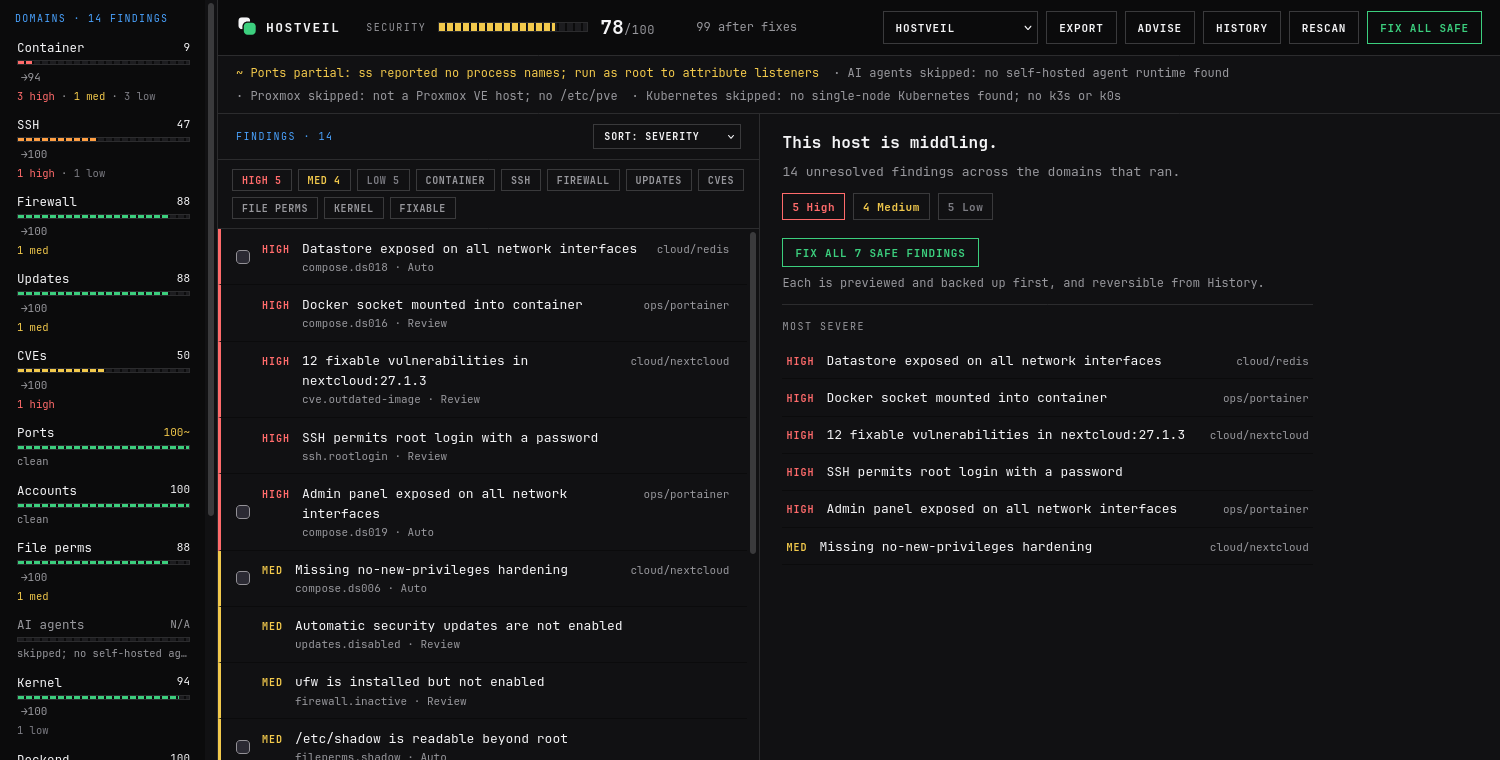
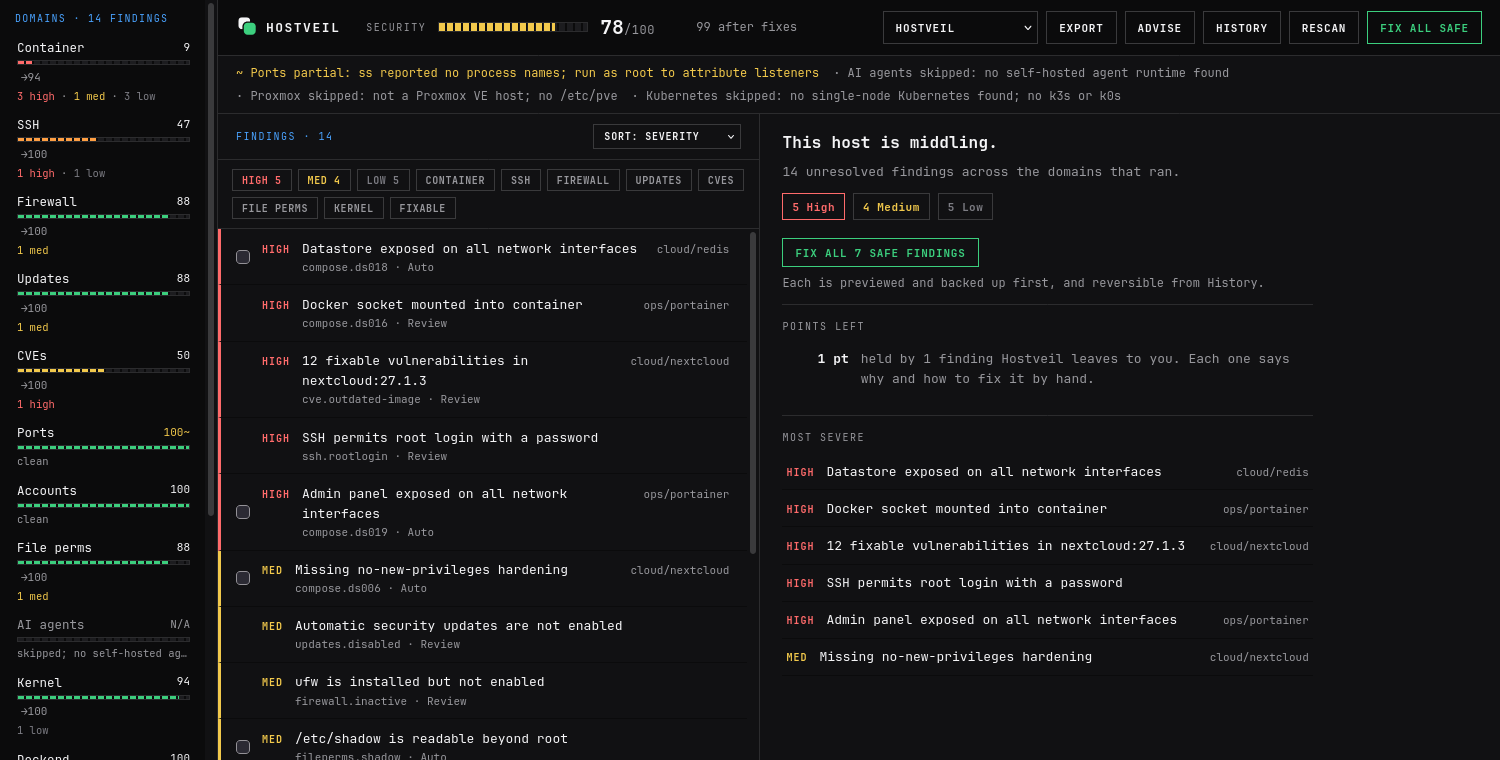
feat(web): say where the points left after every fix are (#888)
## Summary

Stacked on #887 (which is stacked on #886); review only the top commit
and retarget to `main` once those land.

A score that stays below 100 after every fix read as the tool failing.
The overview now says where the rest of the points are and what it takes
to win each part back.

- `model`: `ScoreBreakdown.Left` (`PointsLeft`) holds three parts with
their finding counts:
- **Pending**: points that return once applied fixes take effect after a
restart.
- **Manual**: points held by findings Hostveil explains and leaves for
the operator.
  - **Unavailable**: points held by findings with no fix published yet.
Manual and Unavailable are attributed in that order with the same
scorer, so they add up to exactly `100 - AfterFixes`.
- `web`: the overview lists the parts under "Points left", each with a
sentence on what to do.
- `clirender`: `scan` prints one line under the score, for example
`Points left: +3 after restarts (1 fix) · 20 to fix by hand (3
findings)`. `--json` carries `score.left`.
- Docs: a "Points left" section on the scoring page in both languages
and a paragraph in both READMEs. `web.png` and its stamp are re-taken.

The TUI is unchanged, since its users read the per-axis headroom
already.

## Testing

- New `internal/model/pointsleft_test.go`: the two parts add up to the
gap, counts are right, a clean host and an inapplicable score have
nothing left.
- New `internal/clirender/pointsleft_test.go` for the CLI line.
[…]

diff --git a/cmd/sitegen/content/ko/docs/scoring.html b/cmd/sitegen/content/ko/docs/scoring.html
@@ -364,6 +364,8 @@ overall   = 100 - round(total × 100 / ranCapSum)</code></pre></div>
             <p><strong>100까지 남은 간격은 직접 메울 수 있습니다.</strong> 그것은 Hostveil이 <em>무인으로</em> 하지 않는 부분입니다. 그 계정을 지우거나 소켓 마운트를 걷어내는 일은 오늘 오후에 할 수 있고, 그러면 점수도 따라옵니다.</p>
             <p>다른 선택지는 Manual 항목의 가중치를 깎는 것이었고, 그럴듯해 보이는 바로 그 지점에서 잘못된 거래입니다. Manual은 Hostveil이 손대지 않는다는 뜻이고, 위험은 그대로입니다. 사용자가 직접 가서 없앨 수 있으니까요. 충분히 제거할 수 있는 위험을 깎아 주는 것은 이 모델이 다시 만들어지면서 거부한 바로 그 아첨이고, 고칠 방법이 없는 취약점을 깎지 않는 것도(<a href="#unavailable">위 참고</a>) 같은 이유입니다. 오늘 당장 손댈 수 없다고 위험이 작아지지는 않습니다.</p>
             <p>고칠 것이 하나도 없으면 이 숫자는 점수와 같아지고, 그럴 때 모든 인터페이스는 아무것도 표시하지 않습니다.</p>
+<h3 id="points-left">남은 점수</h3>
+<p>대시보드와 <code>hostveil scan</code>은 100점까지 남은 점수를 세 부분으로 나눠 보여 줍니다. 적용한 수정이 재시작 후 반영되면 돌아오는 점수, 직접 고칠 수 있는 Manual 항목이 차지한 점수, 아직 수정이 나오지 않은 항목이 차지한 점수입니다. 마지막 항목은 패치가 나오면 사라집니다. 뒤의 두 부분을 더하면 &ldquo;조치 후&rdquo; 점수와 100의 차이와 같습니다. <code>scan --json</code>에서는 세 값을 <code>score.left</code>에서 읽을 수 있습니다.</p>
 
             <p><strong>축의 0은 바닥이 아닙니다.</strong> 표시용 값일 뿐이고, <code>remaining</code>은 여전히 양수이며 여전히 움직이고 있습니다. 0인 축에서 항목을 고치는 일은 실제로 효과가 있고, 충분히 없애고 나면 숫자가 올라가기 시작합니다. 축별 내역이 점수와 개수를 함께 싣는 이유가 이것입니다.</p>
             <p><strong>아직 적용되지 않은 수정은 숫자를 움직이지 않습니다.</strong> Hostveil이 쓴 파일이 호스트가 실제로 돌고 있는 근거가 아닌 경우(컨테이너를 아직 다시 만들지 않은 Compose 파일, 유닛이 아직 다시 읽지 않은 systemd 드롭인, 다음 부팅에야 적용되는 sysctl 드롭인) 수정은 적용된 것으로 기록되지만 해당 항목은 점수에서 계속 감점된 채로 남습니다. 그런 수정은 항목 아래 문장과 <code>fix --all</code> 요약에서 그 사실을 밝히고, 무엇을 실행해야 실제로 적용되는지 알려 줍니다. 그 명령을 실행하면 다음 스캔이 개선을 반영합니다.</p>

diff --git a/site/ko/docs/scoring.html b/site/ko/docs/scoring.html
@@ -490,6 +490,8 @@ overall   = 100 - round(total × 100 / ranCapSum)</code></pre></div>
             <p><strong>100까지 남은 간격은 직접 메울 수 있습니다.</strong> 그것은 Hostveil이 <em>무인으로</em> 하지 않는 부분입니다. 그 계정을 지우거나 소켓 마운트를 걷어내는 일은 오늘 오후에 할 수 있고, 그러면 점수도 따라옵니다.</p>
             <p>다른 선택지는 Manual 항목의 가중치를 깎는 것이었고, 그럴듯해 보이는 바로 그 지점에서 잘못된 거래입니다. Manual은 Hostveil이 손대지 않는다는 뜻이고, 위험은 그대로입니다. 사용자가 직접 가서 없앨 수 있으니까요. 충분히 제거할 수 있는 위험을 깎아 주는 것은 이 모델이 다시 만들어지면서 거부한 바로 그 아첨이고, 고칠 방법이 없는 취약점을 깎지 않는 것도(<a href="#unavailable">위 참고</a>) 같은 이유입니다. 오늘 당장 손댈 수 없다고 위험이 작아지지는 않습니다.</p>
             <p>고칠 것이 하나도 없으면 이 숫자는 점수와 같아지고, 그럴 때 모든 인터페이스는 아무것도 표시하지 않습니다.</p>
+<h3 id="points-left">남은 점수</h3>
+<p>대시보드와 <code>hostveil scan</code>은 100점까지 남은 점수를 세 부분으로 나눠 보여 줍니다. 적용한 수정이 재시작 후 반영되면 돌아오는 점수, 직접 고칠 수 있는 Manual 항목이 차지한 점수, 아직 수정이 나오지 않은 항목이 차지한 점수입니다. 마지막 항목은 패치가 나오면 사라집니다. 뒤의 두 부분을 더하면 &ldquo;조치 후&rdquo; 점수와 100의 차이와 같습니다. <code>scan --json</code>에서는 세 값을 <code>score.left</code>에서 읽을 수 있습니다.</p>
 
             <p><strong>축의 0은 바닥이 아닙니다.</strong> 표시용 값일 뿐이고, <code>remaining</code>은 여전히 양수이며 여전히 움직이고 있습니다. 0인 축에서 항목을 고치는 일은 실제로 효과가 있고, 충분히 없애고 나면 숫자가 올라가기 시작합니다. 축별 내역이 점수와 개수를 함께 싣는 이유가 이것입니다.</p>
             <p><strong>아직 적용되지 않은 수정은 숫자를 움직이지 않습니다.</strong> Hostveil이 쓴 파일이 호스트가 실제로 돌고 있는 근거가 아닌 경우(컨테이너를 아직 다시 만들지 않은 Compose 파일, 유닛이 아직 다시 읽지 않은 systemd 드롭인, 다음 부팅에야 적용되는 sysctl 드롭인) 수정은 적용된 것으로 기록되지만 해당 항목은 점수에서 계속 감점된 채로 남습니다. 그런 수정은 항목 아래 문장과 <code>fix --all</code> 요약에서 그 사실을 밝히고, 무엇을 실행해야 실제로 적용되는지 알려 줍니다. 그 명령을 실행하면 다음 스캔이 개선을 반영합니다.</p>

diff --git a/cmd/sitegen/content/en/docs/scoring.html b/cmd/sitegen/content/en/docs/scoring.html
@@ -365,6 +365,8 @@ overall   = 100 - round(total × 100 / ranCapSum)</code></pre></div>
             <p><strong>You can close the gap to 100 yourself.</strong> It is what Hostveil will not do <em>unattended</em>. You can delete that account or drop that socket mount this afternoon, and the score will follow you when you do.</p>
             <p>The alternative was to charge Manual findings less, and it is the wrong trade in exactly the place it looks tempting. Manual means Hostveil will not touch it; the risk is just as large, and you can still go and remove it yourself. Discounting a risk you are perfectly able to remove would be the flattery this model was rebuilt to refuse, and it is the same reason an unpatched vulnerability is not discounted either (see <a href="#unavailable">above</a>): being unable to fix something today does not make the risk any smaller.</p>
             <p>Where nothing is fixable the figure equals the score, and every interface then shows nothing at all.</p>
+<h3 id="points-left">Points left</h3>
+<p>The dashboard and <code>hostveil scan</code> also split the points short of 100 into three parts: points that return when applied fixes take effect after a restart, points held by Manual findings that you can fix by hand, and points held by findings with no fix published yet, which clear when the vendor ships a patch. The last two add up to the gap between &ldquo;after fixes&rdquo; and 100. <code>scan --json</code> carries all three under <code>score.left</code>.</p>
 
             <p><strong>An axis at 0 is not a floor.</strong> It is a display value; <code>remaining</code> is still positive and still moving. Fixing findings on a 0 axis does work, and the number will start climbing once enough of them are gone. That is why the axis breakdown lists counts as well as a score.</p>
             <p><strong>A fix that is not in force yet does not move the number.</strong> Where the file Hostveil writes is not the thing your host is running from (a Compose file the container has not been recreated from, a systemd drop-in the unit has not re-read, a sysctl drop-in that applies at the next boot), the fix is recorded as applied and the finding stays charged in the score. Those fixes say so, in the sentence under them and in <code>fix --all</code>&rsquo;s summary, and they name the command that puts them in force. Run it and the next scan collects the improvement.</p>

diff --git a/site/docs/scoring.html b/site/docs/scoring.html
@@ -490,6 +490,8 @@ overall   = 100 - round(total × 100 / ranCapSum)</code></pre></div>
             <p><strong>You can close the gap to 100 yourself.</strong> It is what Hostveil will not do <em>unattended</em>. You can delete that account or drop that socket mount this afternoon, and the score will follow you when you do.</p>
             <p>The alternative was to charge Manual findings less, and it is the wrong trade in exactly the place it looks tempting. Manual means Hostveil will not touch it; the risk is just as large, and you can still go and remove it yourself. Discounting a risk you are perfectly able to remove would be the flattery this model was rebuilt to refuse, and it is the same reason an unpatched vulnerability is not discounted either (see <a href="#unavailable">above</a>): being unable to fix something today does not make the risk any smaller.</p>
             <p>Where nothing is fixable the figure equals the score, and every interface then shows nothing at all.</p>
+<h3 id="points-left">Points left</h3>
+<p>The dashboard and <code>hostveil scan</code> also split the points short of 100 into three parts: points that return when applied fixes take effect after a restart, points held by Manual findings that you can fix by hand, and points held by findings with no fix published yet, which clear when the vendor ships a patch. The last two add up to the gap between &ldquo;after fixes&rdquo; and 100. <code>scan --json</code> carries all three under <code>score.left</code>.</p>
 
             <p><strong>An axis at 0 is not a floor.</strong> It is a display value; <code>remaining</code> is still positive and still moving. Fixing findings on a 0 axis does work, and the number will start climbing once enough of them are gone. That is why the axis breakdown lists counts as well as a score.</p>
             <p><strong>A fix that is not in force yet does not move the number.</strong> Where the file Hostveil writes is not the thing your host is running from (a Compose file the container has not been recreated from, a systemd drop-in the unit has not re-read, a sysctl drop-in that applies at the next boot), the fix is recorded as applied and the finding stays charged in the score. Those fixes say so, in the sentence under them and in <code>fix --all</code>&rsquo;s summary, and they name the command that puts them in force. Run it and the next scan collects the improvement.</p>

diff --git a/internal/ui/web/assets/app.js b/internal/ui/web/assets/app.js
@@ -580,6 +580,31 @@ function renderOverview(all, visible, rows) {
       "Each is previewed and backed up first, and reversible from History."));
   }
 
+  // Where the points between the score and 100 are, by what it takes to
+  // win them back. Shown so a score that stays below 100 after every fix
+  // reads as a list of reasons. The parts come from the model
+  // (ScoreBreakdown.Left), so every interface states the same numbers.
+  const left = report.score.left || {};
+  const plural = (n, one, many) => `${n} ${n === 1 ? one : many}`;
+const pts = (n) => plural(n, "pt", "pts");
+  const leftRows = [];
+  if (left.pending > 0)
+    leftRows.push(["+" + pts(left.pending),
+      `when ${plural(left.pending_count, "applied fix takes", "applied fixes take")} effect. Restart the services they name.`]);
+  if (left.manual > 0)
+    leftRows.push([pts(left.manual),
+      `held by ${plural(left.manual_count, "finding", "findings")} Hostveil leaves to you. Each one says why and how to fix it by hand.`]);
+  if (left.unavailable > 0)
+    leftRows.push([pts(left.unavailable),
+      `held by ${plural(left.unavailable_count, "finding", "findings")} with no fix published yet. They clear when the vendor ships a patch.`]);
+  if (report.score.applicable !== false && leftRows.length) {
+    box.append(el("div", { class: "over-head" }, "Points left"));
+    const ul = el("ul", { class: "over-left" });
+    for (const [pts, text] of leftRows)
+      ul.append(el("li", {}, el("span", { class: "pts" }, pts), el("span", {}, text)));
+    box.append(ul);
+  }
+
   // Jump list: the most severe handful, so the worst problems are one click
   // away.
   const top = visible.slice(0, 6);

diff --git a/internal/ui/web/assets/app.css b/internal/ui/web/assets/app.css
@@ -298,6 +298,10 @@ ul { list-style: none; margin: 0; padding: 0; }
 .over-head { color: var(--slate); text-transform: uppercase; font-size: 10px; letter-spacing: 1.5px;
   margin: 0 0 8px; padding-top: 14px; border-top: 1px solid var(--line); }
 .over-jump { list-style: none; margin: 0; padding: 0; }
+.over-left { list-style: none; margin: 0 0 20px; padding: 0; }
+.over-left li { display: grid; grid-template-columns: 8ch 1fr; gap: 12px; align-items: baseline;
+padding: 6px 4px; color: var(--slate); }
+.over-left .pts { color: var(--bone); font-weight: 700; text-align: right; }
 .over-jump-row { display: grid; grid-template-columns: auto 1fr auto; gap: 12px; align-items: baseline;
   padding: 8px 4px; border-bottom: 1px solid var(--ink-2); cursor: pointer; }
 .over-jump-row:hover { background: var(--ink-2); }

diff --git a/internal/model/score.go b/internal/model/score.go
@@ -52,6 +52,43 @@ type ScoreBreakdown struct {
 	// Equal to Overall when nothing is fixable, which is the case every UI
 	// must render as nothing at all.
 	AfterFixes uint8 `json:"after_fixes"`
+
+	// Left says where the points between the score and 100 are, by what it
+	// takes to win them back. See PointsLeft.
+	Left PointsLeft `json:"left"`
+}
+
+// PointsLeft splits the points a score is short of 100 by what the operator
+// can do about each part.
+//
+// AfterFixes answers "how far do the offered fixes go". Left answers the
+// question a reader asks next, looking at a 58 after every fix: what is the
+// rest, and is any of it theirs to win. Without it a remaining gap reads as
+// the tool failing.
+//
+// Pending is inside the gap between the score and AfterFixes: fixes already
+// applied that take effect after a restart. Manual and Unavailable are the
+// gap between AfterFixes and 100. They are attributed in that order, each
+// measured with the previous part already won, so Manual + Unavailable is
+// exactly 100 - AfterFixes and no point is counted twice.
+type PointsLeft struct {
+	// Pending is the points that return once applied fixes take effect.
+	Pending      uint8 `json:"pending"`
+	PendingCount int   `json:"pending_count"`
+	// Manual is the points held by findings Hostveil explains and leaves for
+	// the operator to fix by hand (RemediationManual, and anything not
+	// classified at all).
+	Manual      uint8 `json:"manual"`
+	ManualCount int   `json:"manual_count"`
+	// Unavailable is the points held by findings with no fix published yet,
+	// such as a CVE with no upstream patch.
+	Unavailable      uint8 `json:"unavailable"`
+	UnavailableCount int   `json:"unavailable_count"`
+}
+
+// Any reports whether any part of PointsLeft is worth showing.
+func (p PointsLeft) Any() bool {
+	return p.Pending > 0 || p.Manual > 0 || p.Unavailable > 0
 }
 
 // ScoreAxis is one scoring dimension. Applicable is false when the axis's
@@ -365,12 +402,64 @@ func ScoreReport(findings []Finding, states map[Source]ScanState) ScoreBreakdown
 	// skips a Fixed finding, so "what this would be after the fixes" is the
 	// same arithmetic on a different input, and there is no way for the two
 	// numbers to drift apart into two answers about one host.
-	after := scoreOnce(withOfferedFixesApplied(findings), states)
+	offered := withOfferedFixesApplied(findings)
+	after := scoreOnce(offered, states)
 	b.AfterFixes = after.Overall
 	for i := range b.Axes {
 		b.Axes[i].AfterFixes = after.Axes[i].Score
 	}
+	if b.Applicable {
+		b.Left = pointsLeft(findings, offered, states, b.Overall, after.Overall)
+	}
 	return b
+}
+
+// pointsLeft fills PointsLeft. Each part is the same scorer run on the
+// findings with one more group treated as resolved, so the parts use the
+// arithmetic the score itself uses.
+func pointsLeft(findings, offered []Finding, states map[Source]ScanState, score, afterFixes uint8) PointsLeft {
+	var left PointsLeft
+
+	inForce := make([]Finding, len(findings))
+	copy(inForce, findings)
+	for i := range inForce {
+		if inForce[i].Fixed && inForce[i].Pending {
+			inForce[i].Pending = false
+			left.PendingCount++
+		}
+	}
+	if left.PendingCount > 0 {
+		left.Pending = gain(scoreOnce(inForce, states).Overall, score)
+	}
+
+	resolved := make([]Finding, len(offered))
+	copy(resolved, offered)
+	for i := range resolved {
+		f := &resolved[i]
+		if !f.Active() {
+			continue
+		}
+		switch f.Remediation {
+		case RemediationManual, RemediationUnset:
+			f.Fixed = true
+			left.ManualCount++
+		case RemediationUnavailable:
+			left.UnavailableCount++
+		}
+	}
+	withManual := scoreOnce(resolved, states).Overall
+	left.Manual = gain(withManual, afterFixes)
+	if left.UnavailableCount > 0 {
+		left.Unavailable = gain(100, withManual)
+	}
+	return left
+}
+
+func gain(to, from uint8) uint8 {
+	if to <= from {
+		return 0
+	}
+	return to - from
 }
 
 // withOfferedFixesApplied returns findings with every one Hostveil can

diff --git a/internal/model/pointsleft_test.go b/internal/model/pointsleft_test.go
@@ -1,0 +1,54 @@
+package model
+
+import "testing"
+
+func leftFinding(id string, sev Severity, src Source, rem RemediationKind) Finding {
+	f := NewFinding(id, "t", sev, src, rem)
+	f.Remediation = rem
+	return f
+}
+
+// The two parts after the fixes account for every point between AfterFixes
+// and 100, each counted once, and each names how many findings hold it.
+func TestPointsLeftAddsUpToTheGap(t *testing.T) {
+	pending := leftFinding("compose.ds006", SeverityMedium, SourceCompose, RemediationAuto)
+	pending.Fixed, pending.Pending = true, true
+	findings := []Finding{
+		leftFinding("ssh.rootlogin", SeverityHigh, SourceSSH, RemediationReview),
+		leftFinding("accounts.uid0", SeverityHigh, SourceAccounts, RemediationManual),
+		leftFinding("dockerd.group-members", SeverityMedium, SourceDockerd, RemediationManual),
+		leftFinding("cve.unpatched-image", SeverityHigh, SourceCVE, RemediationUnavailable),
+		pending,
+	}
+	b := ScoreReport(findings, nil)
+	l := b.Left
+
+	if got, want := int(l.Manual)+int(l.Unavailable), 100-int(b.AfterFixes); got != want {
+		t.Errorf("manual %d + unavailable %d = %d, want the whole gap %d", l.Manual, l.Unavailable, got, want)
+	}
+	if l.ManualCount != 2 || l.UnavailableCount != 1 || l.PendingCount != 1 {
+		t.Errorf("counts = manual %d, unavailable %d, pending %d; want 2, 1, 1",
+			l.ManualCount, l.UnavailableCount, l.PendingCount)
+	}
+	if l.Manual == 0 || l.Unavailable == 0 || l.Pending == 0 {
+		t.Errorf("every part held a finding and should carry points: %+v", l)
+	}
+	if l.Pending > b.AfterFixes-b.Overall {
+		t.Errorf("pending %d is part of the %d between the score and AfterFixes", l.Pending, b.AfterFixes-b.Overall)
+	}
+	if !l.Any() {
+		t.Error("Any() = false with points left")
+	}
+}
+
+// A clean host and a host with nothing scanned have nothing left to explain.
+func TestPointsLeftIsEmptyWithNothingToExplain(t *testing.T) {
+	if l := ScoreReport(nil, nil).Left; l.Any() {
+		t.Errorf("a clean host has points left: %+v", l)
+	}
+	states := map[Source]ScanState{SourceSSH: ScanSkipped}
+	f := leftFinding("accounts.uid0", SeverityHigh, SourceAccounts, RemediationManual)
+	if l := ScoreReport([]Finding{f}, states).Left; l.Any() {
+		t.Errorf("an inapplicable score has points left: %+v", l)
+	}
+}

diff --git a/internal/clirender/text.go b/internal/clirender/text.go
@@ -34,9 +34,13 @@ func Text(r model.Report, opts Options) string {
 	if !r.Score.Applicable {
 		fmt.Fprintf(&b, "%sSecurity score: %sN/A; no domain could be scanned%s\n\n", c.bold, c.dim, c.reset)
 	} else {
-		fmt.Fprintf(&b, "%sSecurity score: %s%d/100%s%s\n\n",
+		fmt.Fprintf(&b, "%sSecurity score: %s%d/100%s%s\n",
 			c.bold, scoreColor(c, r.Score.Overall), r.Score.Overall, c.reset,
 			headroomNote(c, r.Score))
+		if line := pointsLeftLine(r.Score.Left); line != "" {
+			fmt.Fprintf(&b, "%s%s%s\n", c.dim, line, c.reset)
+		}
+		b.WriteString("\n")
 	}
 
 	for _, ax := range r.Score.Axes {
@@ -372,4 +376,30 @@ func headroomNote(c colors, h headroom) string {
 		return ""
 	}
 	return fmt.Sprintf("%s  → %d after fixes%s", c.dim, after, c.reset)
+}
+
+// pointsLeftLine says where the points short of 100 are, or nothing when
+// there are none to explain. See model.PointsLeft.
+func pointsLeftLine(l model.PointsLeft) string {
+	var parts []string
+	if l.Pending > 0 {
+		parts = append(parts, fmt.Sprintf("+%d after restarts (%s)", l.Pending, plural(l.PendingCount, "fix", "fixes")))
+	}
+	if l.Manual > 0 {
+		parts = append(parts, fmt.Sprintf("%d to fix by hand (%s)", l.Manual, plural(l.ManualCount, "finding", "findings")))
+	}
+	if l.Unavailable > 0 {
+		parts = append(parts, fmt.Sprintf("%d with no fix yet (%s)", l.Unavailable, plural(l.UnavailableCount, "finding", "findings")))
+	}
+	if len(parts) == 0 {
+		return ""
+	}
+	return "Points left: " + strings.Join(parts, " · ")
+}
+
+func plural(n int, one, many string) string {
+	if n == 1 {
+		return fmt.Sprintf("%d %s", n, one)
+	}
+	return fmt.Sprintf("%d %s", n, many)
 }

diff --git a/internal/clirender/pointsleft_test.go b/internal/clirender/pointsleft_test.go
@@ -1,0 +1,20 @@
+package clirender
+
+import (
+	"strings"
+	"testing"
+
+	"github.com/seolcu/hostveil/internal/model"
+)
+
+func TestPointsLeftLine(t *testing.T) {
+	if got := pointsLeftLine(model.PointsLeft{}); got != "" {
+		t.Errorf("nothing left should print nothing, got %q", got)
+	}
+	got := pointsLeftLine(model.PointsLeft{Pending: 3, PendingCount: 1, Manual: 20, ManualCount: 3, Unavailable: 7, UnavailableCount: 1})
+	for _, want := range []string{"+3 after restarts (1 fix)", "20 to fix by hand (3 findings)", "7 with no fix yet (1 finding)"} {
+		if !strings.Contains(got, want) {
+			t.Errorf("%q is missing %q", got, want)
+		}
+	}
+}

diff --git a/README.ko.md b/README.ko.md
@@ -221,6 +221,10 @@ Auto가 되려면 다음 세 조건을 모두 만족해야 합니다.
 되지 않을 수 있습니다. 전체 점수에는 이름도 붙습니다. 80 이상은 *상태가 좋음*,
 50에서 79는 *그저 그럼*, 25에서 49는 *노출됨*, 25 미만은 *활짝 열림*입니다.
 
+대시보드와 `hostveil scan`은 점수 아래에 남은 점수와 그 이유를 보여 줍니다.
+재시작 후 돌아오는 점수, 직접 고칠 수 있는 Manual 항목의 점수, 아직 수정이
+나오지 않은 항목의 점수입니다.
+
 전체 모델과 축별 몫은 [점수 체계](https://hostveil.seolcu.com/ko/docs/scoring)
 페이지에 있습니다.
 

diff --git a/README.md b/README.md
@@ -224,6 +224,10 @@ the Vulnerabilities axis. Every interface also names the overall score: 80 and
 above is *in good shape*, 50 to 79 *middling*, 25 to 49 *exposed* and below 25
 *wide open*.
 
+Below the score, the dashboard and `hostveil scan` list the points left and
+why: points that return after a restart, points held by Manual findings you
+can fix by hand, and points held by findings with no fix published yet.
+
 [Scoring](https://hostveil.seolcu.com/docs/scoring) has the full model and the
 size of each axis.
 
